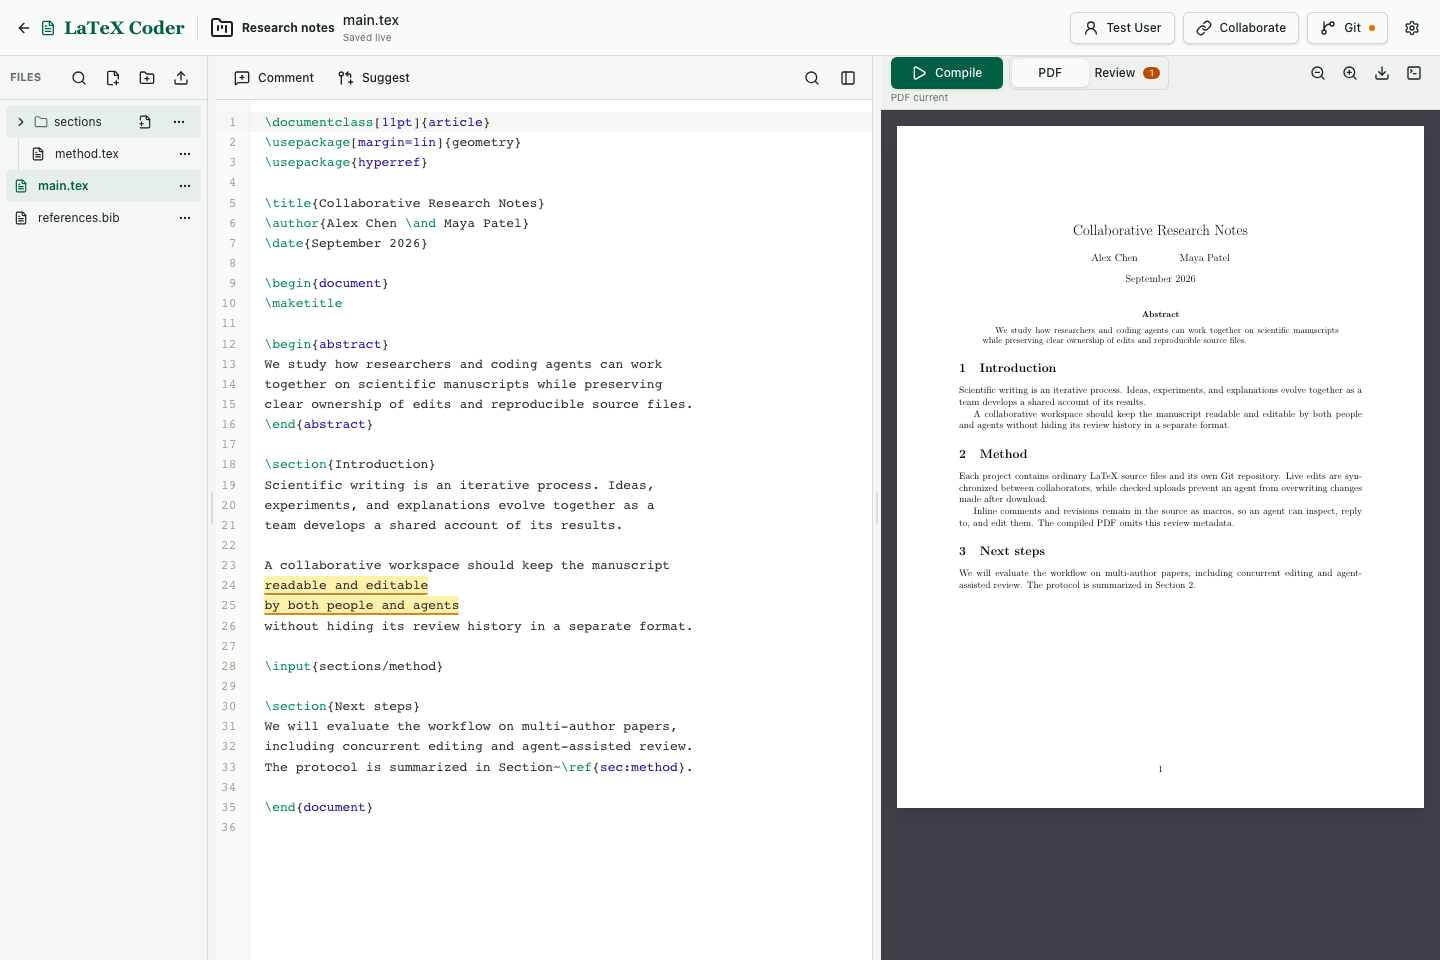
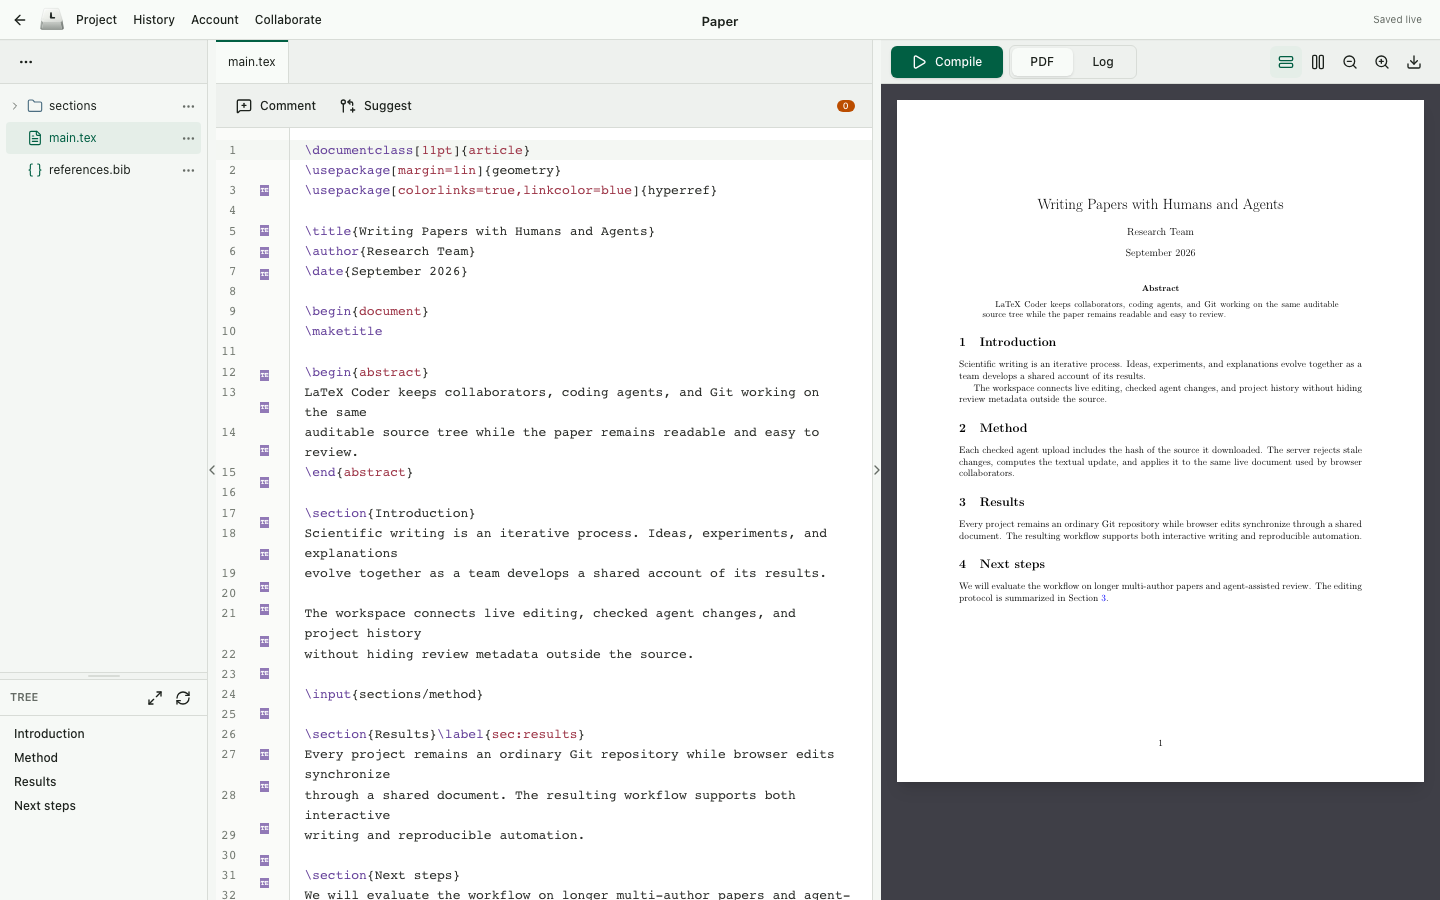
Add product About dialog and refresh screenshot

diff --git a/src/client/App.tsx b/src/client/App.tsx
@@ -106,6 +106,31 @@ function Brand({ prominent = false }: { prominent?: boolean }) {
   );
 }
 
+function AboutDialog() {
+  return (
+    <dialog id="about-dialog" className={cn(dialogClass, "w-[min(27rem,calc(100%-1.5rem))]")}>
+      <div className="p-5">
+        <DialogHeader title="About" closeId="about-close" />
+        <div className="flex flex-col items-center px-3 pb-2 text-center">
+          <img src={keycapUrl} alt="" className="size-20 object-contain" />
+          <h2 className="mt-3 font-serif text-2xl font-semibold">LaTeX Coder</h2>
+          <p className="mt-2 max-w-sm text-sm leading-relaxed text-muted-foreground">A self-hosted LaTeX workspace where people, coding agents, and Git work on the same paper.</p>
+          <div className="mt-4 flex flex-wrap justify-center gap-1.5 text-[11px] text-muted-foreground" aria-label="Project technologies">
+            <span className="rounded border bg-muted px-2 py-1">TypeScript</span>
+            <span className="rounded border bg-muted px-2 py-1">Yjs</span>
+            <span className="rounded border bg-muted px-2 py-1">Git</span>
+            <span className="rounded border bg-muted px-2 py-1">SQLite</span>
+          </div>
+        </div>
+        <footer className="mt-5 flex items-center justify-between border-t pt-4">
+          <span className="text-xs text-muted-foreground">Open source · MIT License</span>
+          <Button variant="outline" size="sm" asChild><a id="about-github" href="https://github.com/EvoEvolver/LatexCoder" target="_blank" rel="noreferrer"><Icon name="git-branch" />GitHub</a></Button>
+        </footer>
+      </div>
+    </dialog>
+  );
+}
+
 export function AppShell() {
   return (
     <>
@@ -131,7 +156,7 @@ export function AppShell() {
 
       <div id="projects-page" className="projects-page min-h-dvh overflow-auto bg-muted/40" hidden>
         <header className="projects-header flex h-16 items-center justify-between border-b bg-background px-[max(1rem,calc((100vw-65rem)/2))]">
-          <Brand />
+          <button id="projects-about" className="rounded-md p-1 text-left transition-colors hover:bg-accent focus-visible:outline-none focus-visible:ring-2 focus-visible:ring-ring" type="button" title="About LaTeX Coder" aria-haspopup="dialog"><Brand /></button>
           <div className="projects-account flex items-center gap-2">
             <Button id="account-button" variant="ghost" size="sm"><Icon name="user-round" /><span id="current-user" className="max-w-36 truncate max-sm:hidden" /></Button>
             <Button id="invite-user" variant="outline" size="sm"><Icon name="user-plus" /><span className="max-sm:hidden">Invite</span></Button>
@@ -154,7 +179,7 @@ export function AppShell() {
         <header id="editor-topbar" className="topbar relative flex min-w-0 items-center border-b bg-background px-1.5 shadow-[0_1px_0_rgba(0,0,0,0.02)]">
           <div id="topbar-actions" className="flex h-full shrink-0 items-center">
             <IconButton id="back-projects" icon="arrow-left" title="All projects" className="mr-0.5 size-7" />
-            <img src={keycapUrl} alt="LaTeX Coder" className="mx-0.5 size-7 shrink-0 object-contain" />
+            <Button id="editor-about" className="mx-0.5 size-7 shrink-0 p-0" variant="ghost" size="icon" type="button" title="About LaTeX Coder" aria-haspopup="dialog"><img src={keycapUrl} alt="LaTeX Coder" className="size-7 object-contain" /></Button>
             <nav className="flex h-full shrink-0 items-center" aria-label="Application menu">
             <DropdownMenu modal={false}>
               <DropdownMenuTrigger asChild><Button id="project-menu" className="h-7 rounded px-2 text-xs font-medium" variant="ghost">Project</Button></DropdownMenuTrigger>
@@ -292,6 +317,7 @@ export function AppShell() {
         <code id="line-context-reference" className="block truncate border-b px-2 py-2 text-[11px] text-muted-foreground" />
         <Button id="copy-line-reference" role="menuitem" variant="ghost" size="sm" className="mt-1 w-full justify-start rounded-sm px-2 text-xs"><Icon name="copy" />Copy path and line</Button>
       </div>
+      <AboutDialog />
       <dialog id="search-dialog" className={cn(dialogClass, "w-[min(44rem,calc(100%-1.5rem))]")}><div className="p-5"><DialogHeader title="Search and replace" closeId="search-close" /><form id="search-form" className="flex flex-wrap items-center gap-2"><Input id="search-query" className="min-w-0 flex-1" aria-label="Search project" placeholder="Search project" maxLength={512} required /><Button type="submit" size="icon" title="Search"><Icon name="search" /></Button><div className="flex w-full gap-4 text-xs"><label className="flex items-center gap-2"><input id="search-case" type="checkbox" />Match case</label><label className="flex items-center gap-2"><input id="search-regex" type="checkbox" />Regular expression</label></div></form><div className="mt-3 flex flex-wrap gap-2"><Input id="replace-text" className="min-w-0 flex-1" aria-label="Replacement text" placeholder="Replacement text" /><select id="replace-scope" aria-label="Replace scope" className="h-9 rounded-md border bg-background px-2 text-xs"><option value="file">Current file</option><option value="project">Entire project</option></select><Button id="replace-preview" variant="outline" size="sm">Preview</Button><Button id="replace-apply" size="sm" hidden>Apply replacements</Button></div><p id="search-status" className="my-3 text-xs text-muted-foreground" role="status" /><div id="search-results" className="max-h-[55dvh] overflow-auto" /></div></dialog>
       <dialog id="settings-dialog" className={dialogClass}>
         <form id="settings-form" className="space-y-4 p-5">

diff --git a/scripts/capture-readme.ts b/scripts/capture-readme.ts
@@ -1,0 +1,108 @@
+import { existsSync } from "node:fs";
+import { mkdtemp, rm } from "node:fs/promises";
+import type { AddressInfo } from "node:net";
+import os from "node:os";
+import path from "node:path";
+
+import { chromium } from "playwright";
+
+import { createPaperServer } from "../src/server/main.ts";
+
+const mainSource = String.raw`\documentclass[11pt]{article}
+\usepackage[margin=1in]{geometry}
+\usepackage[colorlinks=true,linkcolor=blue]{hyperref}
+
+\title{Writing Papers with Humans and Agents}
+\author{Research Team}
+\date{September 2026}
+
+\begin{document}
+\maketitle
+
+\begin{abstract}
+LaTeX Coder keeps collaborators, coding agents, and Git working on the same
+auditable source tree while the paper remains readable and easy to review.
+\end{abstract}
+
+\section{Introduction}
+Scientific writing is an iterative process. Ideas, experiments, and explanations
+evolve together as a team develops a shared account of its results.
+
+The workspace connects live editing, checked agent changes, and project history
+without hiding review metadata outside the source.
+
+\input{sections/method}
+
+\section{Results}\label{sec:results}
+Every project remains an ordinary Git repository while browser edits synchronize
+through a shared document. The resulting workflow supports both interactive
+writing and reproducible automation.
+
+\section{Next steps}
+We will evaluate the workflow on longer multi-author papers and agent-assisted
+review. The editing protocol is summarized in Section~\ref{sec:results}.
+
+\end{document}
+`;
+
+const methodSource = String.raw`\section{Method}
+Each checked agent upload includes the hash of the source it downloaded. The
+server rejects stale changes, computes the textual update, and applies it to the
+same live document used by browser collaborators.
+`;
+
+const references = String.raw`@article{collaboration2026,
+  title = {Collaborative Scientific Writing},
+  author = {Research Team},
+  year = {2026}
+}
+`;
+
+async function main(): Promise<void> {
+  const stateDir = await mkdtemp(path.join(os.tmpdir(), "latexcoder-readme-"));
+  const compiler = ["/Library/TeX/texbin/latexmk", "/usr/bin/latexmk", "/usr/local/bin/tectonic"].find(existsSync);
+  const paper = await createPaperServer({ stateDir, authDisabled: true, compiler });
+  let browser: Awaited<ReturnType<typeof chromium.launch>> | undefined;
+  try {
+    await new Promise<void>((resolve, reject) => {
+      paper.server.once("error", reject);
+      paper.server.listen(0, "127.0.0.1", resolve);
+    });
+    const base = `http://127.0.0.1:${(paper.server.address() as AddressInfo).port}`;
+    const project = (await (await fetch(`${base}/v1/projects`)).json() as { projects: Array<{ id: string }> }).projects[0];
+    if (!project) throw new Error("Default project was not created");
+    const projectQuery = new URLSearchParams({ project: project.id });
+    const upload = async (filePath: string, source: string): Promise<void> => {
+      const query = new URLSearchParams(projectQuery);
+      query.set("path", filePath);
+      const response = await fetch(`${base}/v1/files?${query}`, { method: "PUT", body: source });
+      if (!response.ok) throw new Error(`Could not create ${filePath}: ${response.status} ${await response.text()}`);
+    };
+    await upload("main.tex", mainSource);
+    await upload("sections/method.tex", methodSource);
+    await upload("references.bib", references);
+    const compile = await fetch(`${base}/v1/compile?${projectQuery}`, {
+      method: "POST",
+      headers: { "Content-Type": "application/json" },
+      body: JSON.stringify({ main: "main.tex" }),
+    });
+    if (!compile.ok) throw new Error(`Could not compile screenshot project: ${compile.status} ${await compile.text()}`);
+
+    browser = await chromium.launch();
+    const page = await browser.newPage({ viewport: { width: 1440, height: 900 }, deviceScaleFactor: 1 });
+    await page.goto(`${base}/?e2e=1`);
+    await page.locator("#editor-page").waitFor();
+    await page.locator("#pdf-document canvas").first().waitFor();
+    await page.locator("#sync-state", { hasText: "Saved live" }).waitFor();
+    await page.screenshot({ path: path.resolve("docs/images/workspace.png") });
+    await page.close();
+  } finally {
+    await browser?.close();
+    paper.shutdown();
+    paper.sockets.close();
+    await new Promise<void>(resolve => paper.server.close(() => resolve()));
+    await rm(stateDir, { recursive: true, force: true });
+  }
+}
+
+await main();

diff --git a/tests/browser-collaboration.test.ts b/tests/browser-collaboration.test.ts
@@ -419,6 +419,17 @@ test("login, invitations, and capability links separate members from guests", as
     await page.locator("#projects-page").waitFor();
     const projectMark = page.locator("#projects-page .brand img");
     assert.equal(await projectMark.evaluate((image: HTMLImageElement) => image.complete && image.naturalWidth > 0), true);
+    await page.locator("#projects-about").click();
+    await page.locator("#about-dialog").waitFor();
+    assert.equal(await page.locator("#about-github").getAttribute("href"), "https://github.com/EvoEvolver/LatexCoder");
+    assert.match(await page.locator("#about-dialog").textContent(), /people, coding agents, and Git/);
+    await page.screenshot({ path: "/tmp/latexcoder-about.png" });
+    await page.setViewportSize({ width: 390, height: 844 });
+    const aboutBounds = await page.locator("#about-dialog").boundingBox();
+    assert.ok(aboutBounds && aboutBounds.x >= 0 && aboutBounds.x + aboutBounds.width <= 390, `About dialog must fit the mobile viewport: ${JSON.stringify(aboutBounds)}`);
+    await page.screenshot({ path: "/tmp/latexcoder-about-mobile.png" });
+    await page.setViewportSize({ width: 1280, height: 720 });
+    await page.locator("#about-close").click();
     assert.equal(await page.locator("#current-user").textContent(), "admin");
     assert.equal(await page.locator("#new-project").isVisible(), true);
     await page.locator("#account-button").click();
@@ -437,12 +448,16 @@ test("login, invitations, and capability links separate members from guests", as
 
     await page.locator(".project-row").first().click();
     assert.equal(await page.locator("#guest-name-field").isHidden(), true);
-    const editorMark = page.locator("#editor-topbar img[alt='LaTeX Coder']");
+    const editorMark = page.locator("#editor-about img[alt='LaTeX Coder']");
     assert.equal(await editorMark.evaluate((image: HTMLImageElement) => image.complete && image.naturalWidth > 0), true);
     const backBounds = await page.locator("#back-projects").boundingBox();
     const markBounds = await editorMark.boundingBox();
     const projectBounds = await page.locator("#project-menu").boundingBox();
     assert.ok(backBounds && markBounds && projectBounds && backBounds.x < markBounds.x && markBounds.x < projectBounds.x);
+    await page.locator("#editor-about").click();
+    await page.locator("#about-dialog").waitFor();
+    await page.keyboard.press("Escape");
+    await page.locator("#about-dialog").waitFor({ state: "hidden" });
     await page.locator("#account-menu").click();
     assert.equal(await page.locator("#editor-account-button").isVisible(), true);
     assert.match(await page.locator("#editor-account-button").textContent(), /Account Settings/);

diff --git a/src/client/controller.ts b/src/client/controller.ts
@@ -3573,6 +3573,12 @@ async function newFolder(prefix = "") {
   catch (error) { showToast(error.message); }
 }
 
+const aboutDialog = document.getElementById("about-dialog") as HTMLDialogElement;
+for (const id of ["projects-about", "editor-about"]) {
+  document.getElementById(id)!.addEventListener("click", () => aboutDialog.showModal());
+}
+document.getElementById("about-close")!.addEventListener("click", () => aboutDialog.close());
+
 const settingsDialog = document.getElementById("settings-dialog") as HTMLDialogElement;
 onDynamicClick("project-settings", async () => {
   try {
